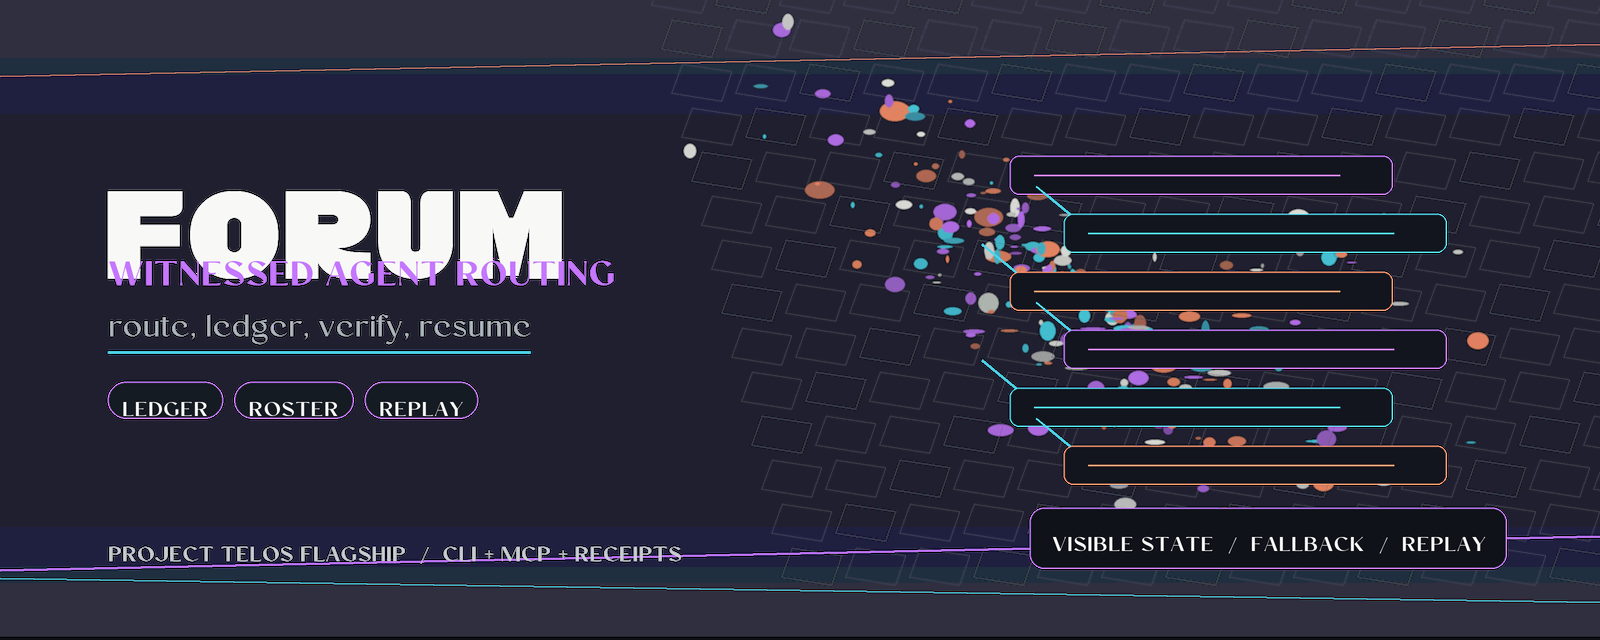
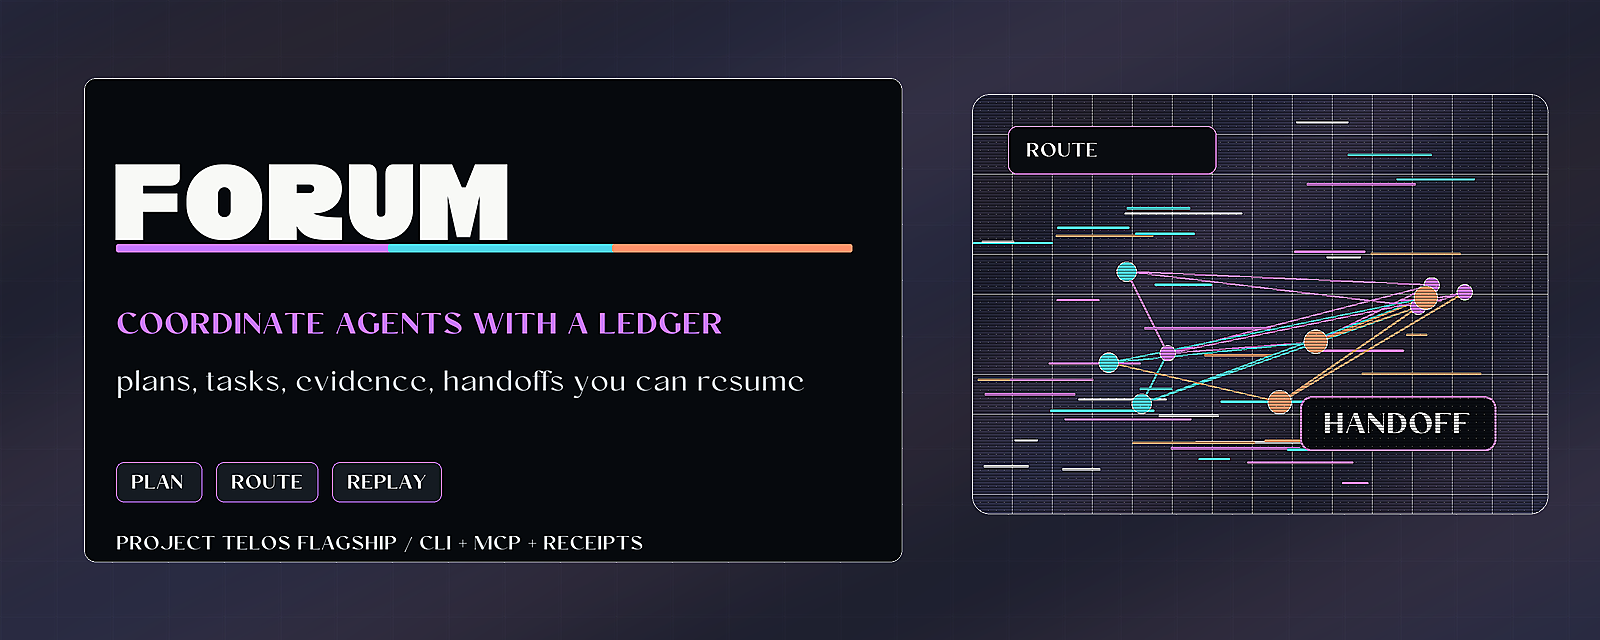
Improve flagship presentation assets

diff --git a/docs/brand/README.md b/docs/brand/README.md
@@ -1,13 +1,15 @@
 # Forum Brand Assets
 
-The README hero image in this folder was refreshed on 2026-06-28 as part of the Project Telos rendering dogfood pass.
+The README hero image in this folder was refreshed on 2026-06-29 as part of the Project Telos rendering dogfood pass.
 
 ## Rendering Receipt
 
 - Source contract: `telos.rendering.research` in the Telos repository.
-- Visual research lane: Gaussian-splatting fields, clustered-forward lighting grids, visible state overlays, and receipt-first UI composition.
+- Renderer: `project-telos.brand-render/v2`, maintained in `telos/tools/render_flagship_heroes.py`.
+- Visual research lane: Gaussian-splatting fields, clustered-forward lighting grids, visible state overlays, retro CGI texture, dithering, and receipt-first UI composition.
+- Critique lane: `r/design`, `r/design_critiques`, and `r/posterdesign` are used as non-evidentiary presentation references for hierarchy, focal control, poster readability, and effect restraint.
 - Product role: witnessed agent orchestration.
 - Tool-specific motif: ledger routes and replay rows.
 - Typography: rendered locally from the operator-owned Kilon and Conso font packages. The public repository carries only the exported artwork, not the purchased font files.
-- Accessibility floor: high-contrast foreground text, non-color-only status labels, and static PNG fallback for GitHub and low-capability hosts.
+- Accessibility floor: high-contrast foreground text, a solid no-texture text field, non-color-only status labels, and static PNG fallback for GitHub and low-capability hosts.
 - Provenance boundary: Reddit and community links are treated as non-evidentiary source leads; implementation claims resolve through lawful papers, standards, official repositories, and repeatable local checks.

diff --git a/README.md b/README.md
@@ -1,11 +1,11 @@
 <p align="center">
-  <img src="docs/brand/forum-hero.png" alt="Forum, a Project Telos flagship for witnessed agent orchestration">
+  <img src="docs/brand/forum-hero.png" alt="Forum, coordinate agent work with replayable ledgers">
 </p>
 <!-- Project mark: docs/brand/forum-mark.svg -->
 
 # forum
 
-> Route agent work through a ledger another run can resume.
+> Coordinate agents through ledgers a later run can inspect and resume.
 
 [Project Telos](https://harperz9.github.io) | [gather](https://github.com/HarperZ9/gather) | [crucible](https://github.com/HarperZ9/crucible) | [index](https://github.com/HarperZ9/index) | [forum](https://github.com/HarperZ9/forum) | [telos](https://github.com/HarperZ9/telos)
 